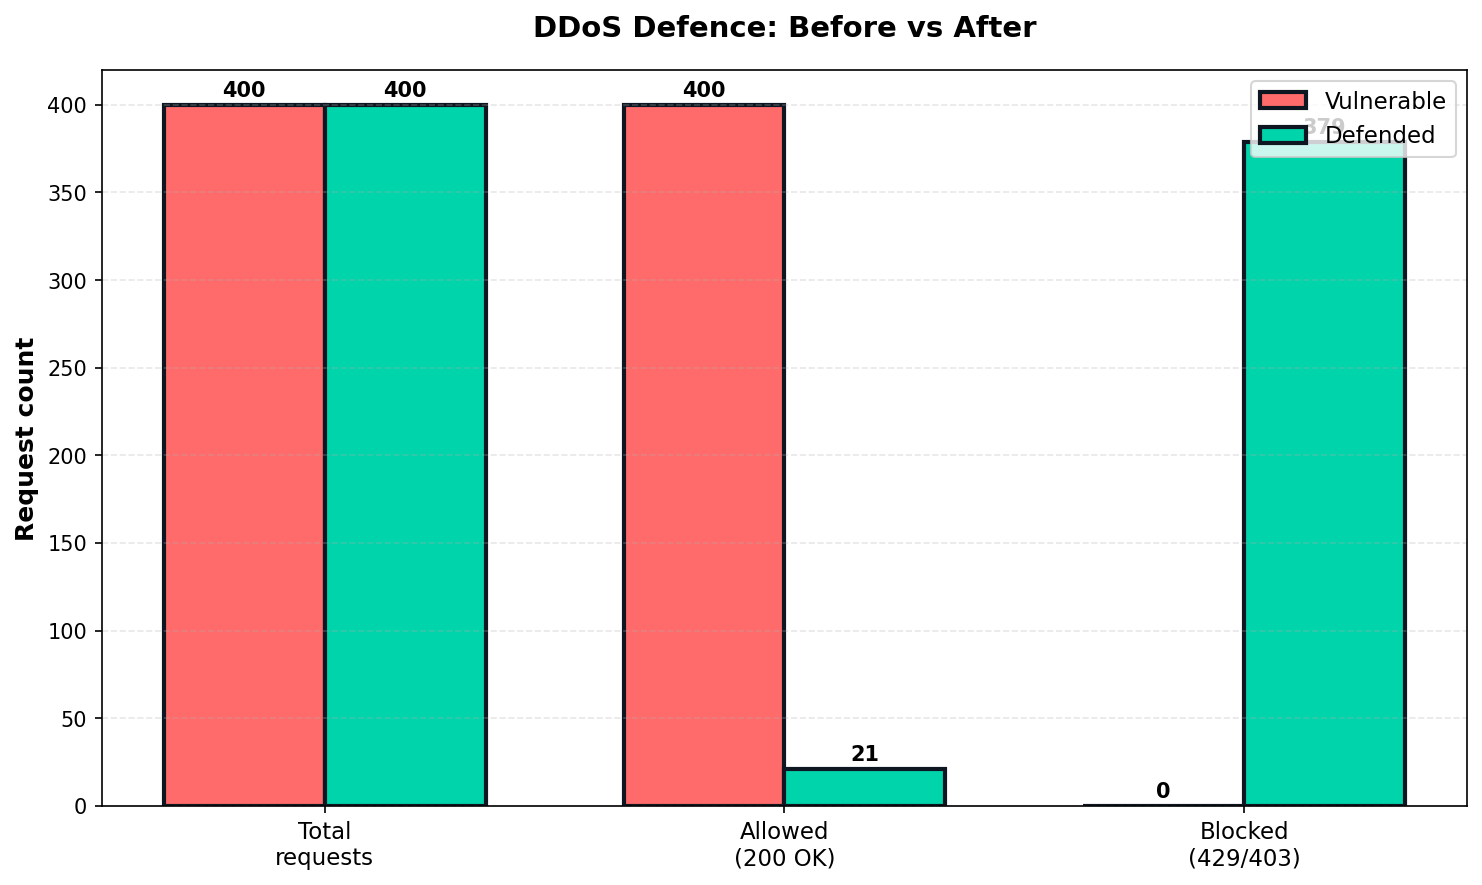
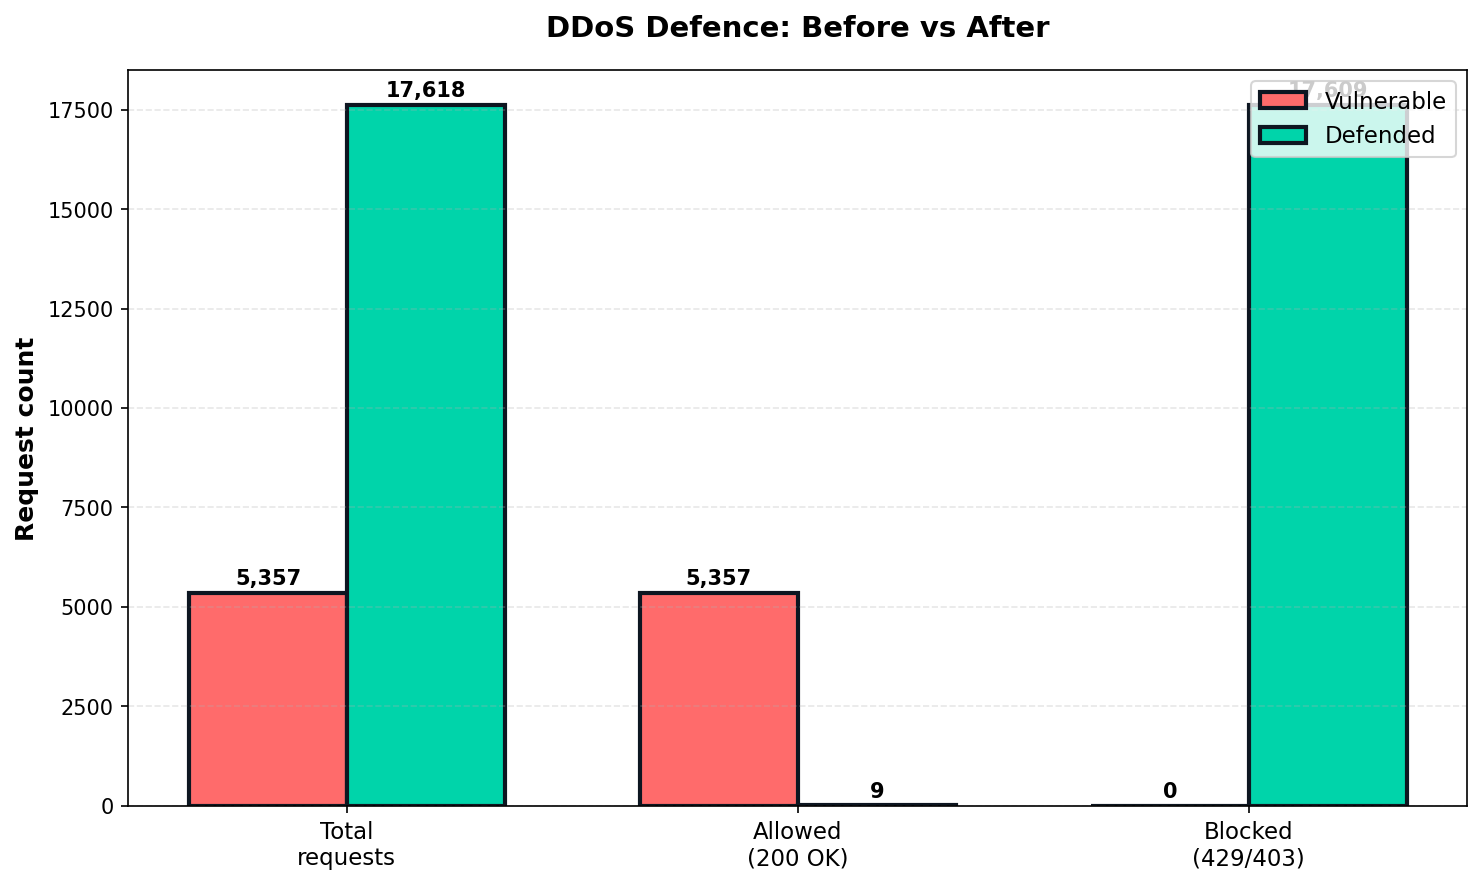
Add Linux evaluation results: 99.9% block rate, 0% FPR, 4ms overhead

diff --git a/DDoS_defence_model/experiments_results.md b/DDoS_defence_model/experiments_results.md
@@ -1,0 +1,19 @@
+# Attack Variant Evaluation
+
+| Variant | Attack Pattern | Total | Allowed | Blocked | Block Rate |
+|:-------:|---------------|------:|--------:|--------:|-----------:|
+| A | Single-source burst | 11,962 | 9 | 11,953 | 99.9% |
+| B | Sustained flood | 11,537 | 9 | 11,528 | 99.9% |
+| C | Distributed botnet | 11,396 | 9 | 11,387 | 99.9% |
+| D | Slow drip (low-and-slow) | 1,008 | 9 | 999 | 99.1% |
+| E | Mixed burst/idle | 2,790 | 9 | 2,781 | 99.7% |
+
+## Per-layer breakdown
+
+| Variant | Blocklist | Rate Limit | Anomaly | Reputation | ML |
+|:-------:|----------:|-----------:|--------:|-----------:|---:|
+| A | 11,948 | 0 | 0 | 0 | 5 |
+| B | 11,523 | 0 | 0 | 0 | 5 |
+| C | 11,382 | 0 | 0 | 0 | 5 |
+| D | 994 | 0 | 0 | 0 | 5 |
+| E | 2,776 | 0 | 0 | 0 | 5 |
